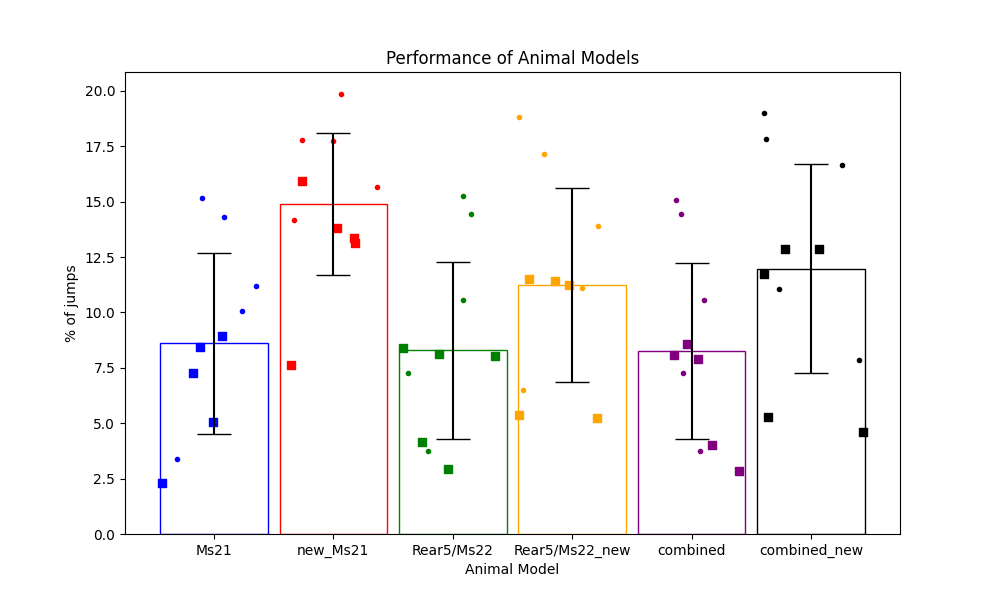
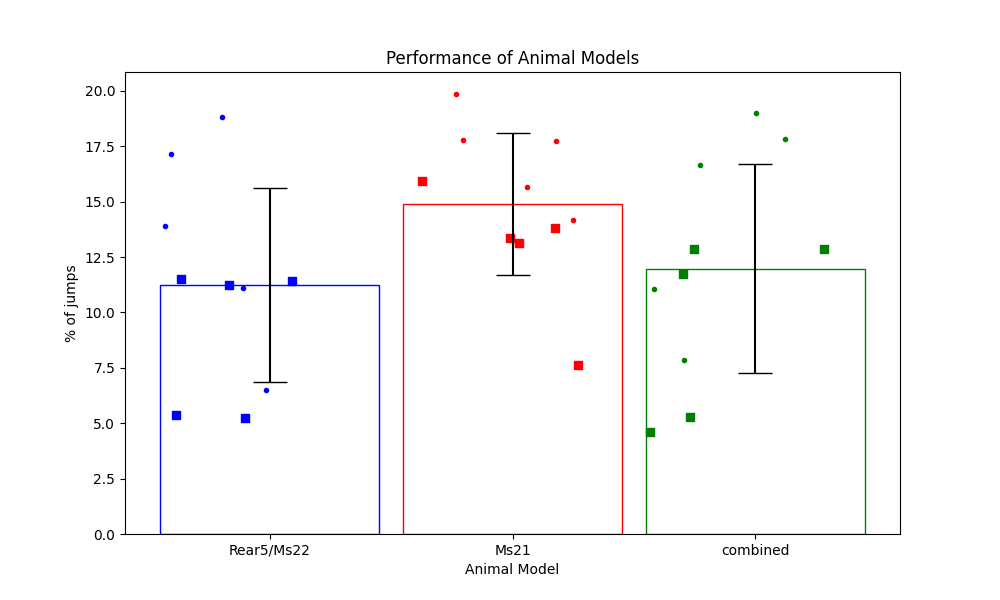
DLC update

diff --git a/DeepLabCut/DLC_jump_analysis/all_trackers/jump_analysis.py b/DeepLabCut/DLC_jump_analysis/all_trackers/jump_analysis.py
@@ -1,5 +1,4 @@
 import csv
-from this import d
 import pandas as pd
 import matplotlib.pyplot as plt
 from pathlib import Path
@@ -36,10 +35,10 @@ def main(full_path, relative_path, fname):
   
 
     w = .9 # bar width
-    x = [1, 2, 3, 4, 5, 6] # x-coordinates of your bars
-    colors = ['blue', 'red', 'green']    # corresponding colors
+    x = [1, 2, 3] # x-coordinates of your bars
+    colors = ['blue', 'red', 'green']  # corresponding colors
     #y = Ms21_df_values, Ms21_new_df_values, Ms22_Rear5_df_values, Ms22_Rear5_new_df_values, combined_df_values, combined_new_df_values
-    y = Ms21_new_df_values, Ms22_Rear5_new_df_values, combined_new_df_values
+    y = Ms22_Rear5_new_df_values, Ms21_new_df_values, combined_new_df_values
 
     fig, ax = plt.subplots()
     ax.bar(x,
@@ -47,7 +46,7 @@ def main(full_path, relative_path, fname):
            yerr=[np.std(yi) for yi in y],    # error bars
            capsize=12, # error bar cap width in points
            width=w,    # bar width
-           tick_label=["Ms21", "new_Ms21", "Rear5/Ms22", "Rear5/Ms22_new", "combined", "combined_new"],#,"Combined", "RC1"],
+           tick_label=["Rear5/Ms22", "Ms21", "combined"],#"RC1"],
            color=(0,0,0,0),  # face color transparent
            edgecolor=colors,
          #ecolor=colors,    # error bar colors; setting this raises an error for whatever reason.
@@ -81,4 +80,4 @@ def main(full_path, relative_path, fname):
     plt.show()
 
 
-main(full_path_directory, rump_directory, "rump_results.png")
+main(full_path_directory, nose_directory, "nose_results.png")
